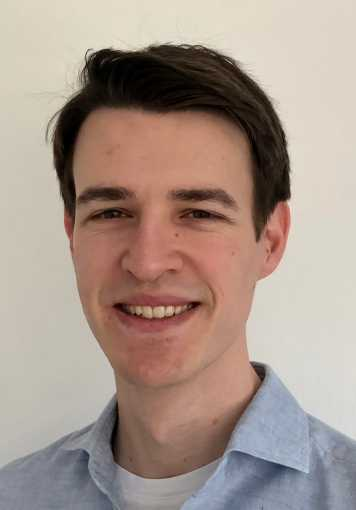
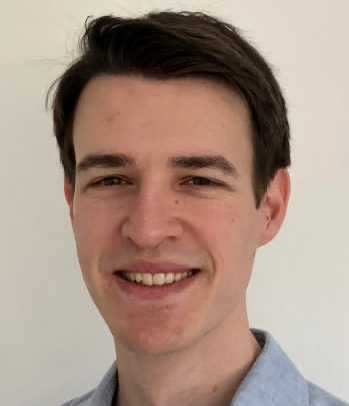
28-10-2025 Teams page updated

diff --git a/styles/team.css b/styles/team.css
@@ -81,7 +81,7 @@ body::before {
   margin-top: 3rem;
   font-family: 'Lucida Sans', 'Lucida Sans Regular', 'Lucida Grande', 'Lucida Sans Unicode', Geneva, Verdana, sans-serif;
   font-size: 1.20rem;
-  line-height: 1.50;
+  line-height: 1.75;
   color: #05014a;
 }
 
@@ -90,10 +90,10 @@ body::before {
   display: flex;
   flex-direction: column;
   flex-wrap: wrap;
-  gap: 2rem;
+  gap: 1rem;
   justify-content: center;
   padding: 0rem;
-  overflow-y: scroll;
+  overflow-y: visible;
   align-items: left; /* Align items to the left */
   text-align: left;
   max-width: 75vw;
@@ -119,14 +119,14 @@ body::before {
 }
 
 .team-card img {
-  aspect-ratio: 3 / 4;
+  aspect-ratio: 1;
   height: 30vh;
   object-fit: cover; /* Ensures the image covers the card without distortion */
-  max-width: 45vh; /* Limit width to maintain aspect ratio */
   display: block;
 }
 
 .team-info {
+  margin-top: -1rem;
   padding: 1rem;
   line-height: 1.75rem;
   font-size: larger;
